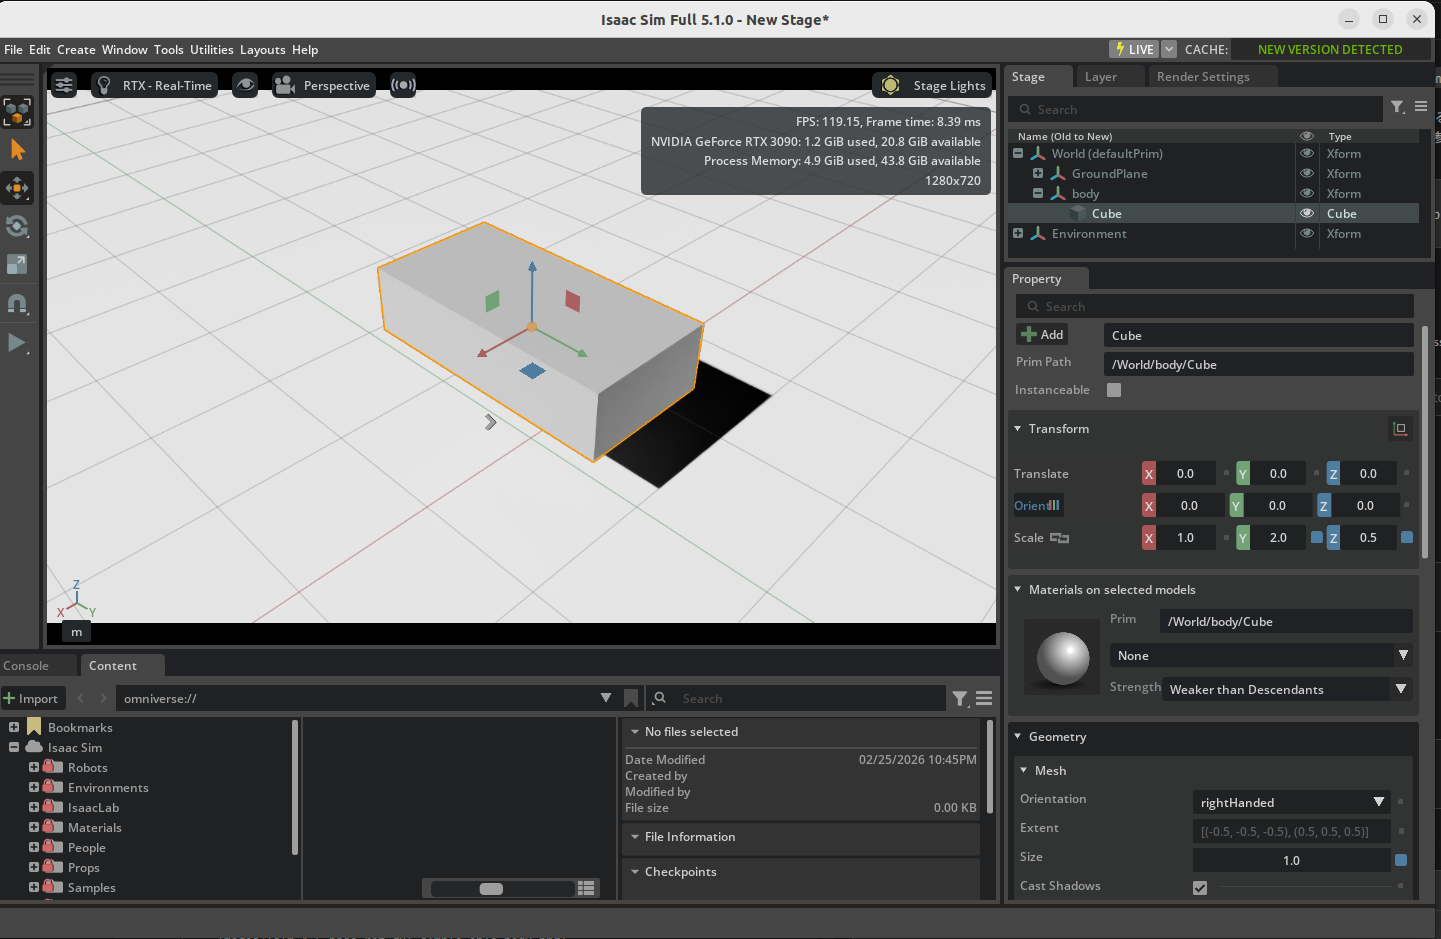
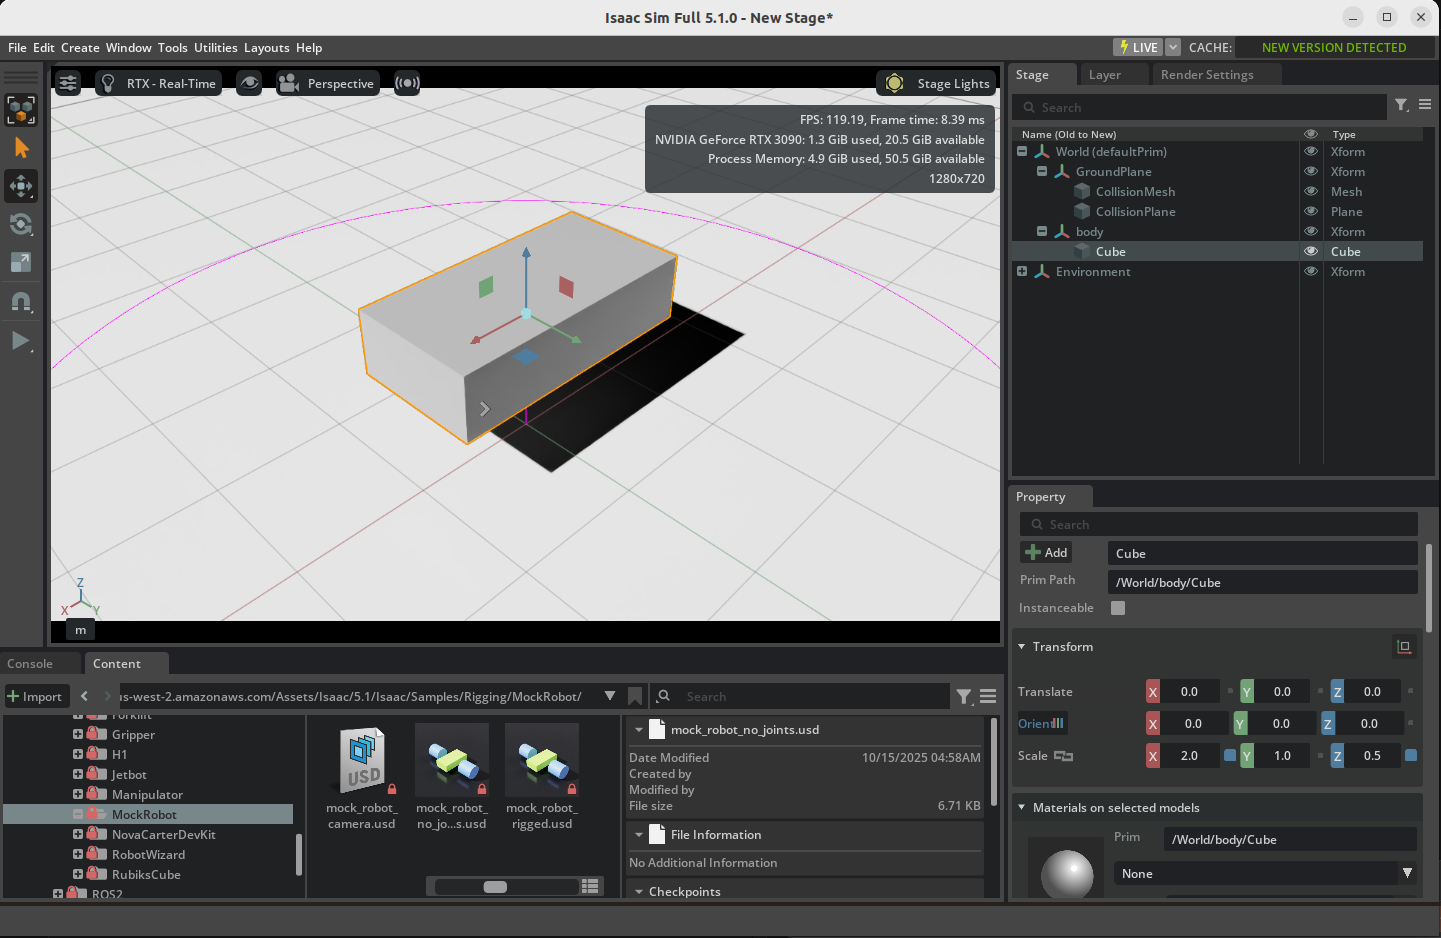
[update] 02_assemble_robot.md

diff --git a/docs/robot_setup/02_assemble_robot.ja.md b/docs/robot_setup/02_assemble_robot.ja.md
@@ -42,21 +42,21 @@ title: シンプルなロボットの組み立て
 3. Property パネルの **Transform > Translate** で位置を **(0, 0, 1)** に設定します。
 4. メニューバーの **Create > Shape > Cube** をクリックしてキューブを作成します。
 5. Property パネルの **Transform > Translate** で位置を **(0, 0, 1)** に設定します。
-6. Property パネルの **Transform > Scale** で **(1, 2, 0.5)** に設定します。
+6. Property パネルの **Transform > Scale** で **(2, 1, 0.5)** に設定します。
 7. キューブを **body** Xform の中にドラッグ＆ドロップして子要素にします。
 
    ![ロボットボディの作成](images/03_make_robot_body.png)
 
 ### 車輪の作成
 
-1. ステージ上で右クリックし、**Create > Xform** を選択します。Property パネルで **Translate** を **(1.5, 0, 1)**、**Orient** を **(0, 90, 0)** に設定します。
+1. ステージ上で右クリックし、**Create > Xform** を選択します。Property パネルで **Translate** を **(0, 1.5, 1)**、**Orient** を **(90, 0, 0)** に設定します。
 2. **wheel_left** にリネームします。
 3. ステージ上の**wheel_left**を右クリックして、 **Create > Shape > Cylinder** をクリックしてシリンダーを作成します。
 4. Property パネルの **Geometry** セクションまでスクロールします。
 5. **Radius** を **0.5**、**Height** を **1.0** に変更します。
 7. シリンダーを **wheel_left** にリネームします。
 8. **wheel_left** Xform を右クリックして **Duplicate** を選択します。
-9. 複製された車輪の **Translate** の x 値を **-1.5** に移動します。
+9. 複製された車輪の **Translate** の y 値を **-1.5** に移動します。
 10. 複製された Xform を **wheel_right** にリネームします。
 11. 複製されたシリンダーも **wheel_right** にリネームします。
 
@@ -101,9 +101,9 @@ title: シンプルなロボットの組み立て
 
 1. メニューバーの **Create > Materials > OmniPBR** をクリックする動作を3セット行って、3つのマテリアルを作成します。
 2. 作成されたマテリアルを右クリックして、それぞれ **ground** と **body** 、 **wheel** にリネームします。
-3. 作成した**body**マテリアルを選択して、**Property** タブの**Material and Shader / Albedo** のセクションで **base color** を**RGB: (0.2, 0.2, 0.8)**変更します。
+3. 作成した**body**マテリアルを選択して、**Property** タブの**Material and Shader / Albedo** のセクションで **base color** を**RGB: (0.1, 1.0, 0.1)**変更します。
 4. 反射率（reflectivity）、粗さ（roughness）などのプロパティも必要に応じて調整します。
-5. 作成した**wheel**マテリアルを選択して、**Property** タブの**Material and Shader / Albedo** のセクションで **base color** を**RGB: (0.8, 0.2, 0.1)**変更します。
+5. 作成した**wheel**マテリアルを選択して、**Property** タブの**Material and Shader / Albedo** のセクションで **base color** を**RGB: (0.1, 0.1, 1.0)**変更します。
 6. 反射率（reflectivity）、粗さ（roughness）などのプロパティも必要に応じて調整します。
 7. **GroundPlane** Xfromを選択し、**Property** タブの **Materials on selected models** から**ground**マテリアルを割り当てます。
 8. **body** Xfromを選択し、**Property** タブの **Materials on selected models** から**body**マテリアルを割り当てます。

diff --git a/docs/robot_setup/02_assemble_robot.en.md b/docs/robot_setup/02_assemble_robot.en.md
@@ -42,21 +42,21 @@ In this tutorial, you will use GUI operations to build the basic structure of a 
 3. In the Property panel, set **Transform > Translate** to **(0, 0, 1)**.
 4. Click **Create > Shape > Cube** from the menu bar to create a cube.
 5. In the Property panel, set **Transform > Translate** to **(0, 0, 1)**.
-6. In the Property panel, set **Transform > Scale** to **(1, 2, 0.5)**.
+6. In the Property panel, set **Transform > Scale** to **(2, 1, 0.5)**.
 7. Drag and drop the cube into the **body** Xform to make it a child element.
 
    ![Creating the robot body](images/03_make_robot_body.png)
 
 ### Creating the Wheels
 
-1. Right-click on the stage and select **Create > Xform**. In the Property panel, set **Translate** to **(1.5, 0, 1)** and **Orient** to **(0, 90, 0)**.
+1. Right-click on the stage and select **Create > Xform**. In the Property panel, set **Translate** to **(0, 1.5, 1)** and **Orient** to **(90, 0, 0)**.
 2. Rename it to **wheel_left**.
 3. Right-click **wheel_left** on the stage, then click **Create > Shape > Cylinder** to create a cylinder.
 4. Scroll down to the **Geometry** section in the Property panel.
 5. Change **Radius** to **0.5** and **Height** to **1.0**.
 7. Rename the cylinder to **wheel_left**.
 8. Right-click the **wheel_left** Xform and select **Duplicate**.
-9. Move the duplicated wheel's **Translate** x value to **-1.5**.
+9. Move the duplicated wheel's **Translate** y value to **-1.5**.
 10. Rename the duplicated Xform to **wheel_right**.
 11. Rename the duplicated cylinder to **wheel_right**.
 
@@ -101,9 +101,9 @@ In this tutorial, you will use GUI operations to build the basic structure of a 
 
 1. Click **Create > Materials > OmniPBR** from the menu bar three times to create three materials.
 2. Right-click the newly created materials and rename them to **ground**, **body**, and **wheel** respectively.
-3. Select the **body** material and change the **base color** to **RGB: (0.2, 0.2, 0.8)** in the **Material and Shader / Albedo** section of the **Property** tab.
+3. Select the **body** material and change the **base color** to **RGB: (0.1, 1.0, 0.1)** in the **Material and Shader / Albedo** section of the **Property** tab.
 4. Adjust reflectivity, roughness, and other properties as needed.
-5. Select the **wheel** material and change the **base color** to **RGB: (0.8, 0.2, 0.1)** in the **Material and Shader / Albedo** section of the **Property** tab.
+5. Select the **wheel** material and change the **base color** to **RGB: (0.1, 0.1, 1.0)** in the **Material and Shader / Albedo** section of the **Property** tab.
 6. Adjust reflectivity, roughness, and other properties as needed.
 7. Select the **GroundPlane** Xform and assign the **ground** material from **Materials on selected models** in the **Property** tab.
 8. Select the **body** Xform and assign the **body** material from **Materials on selected models** in the **Property** tab.
